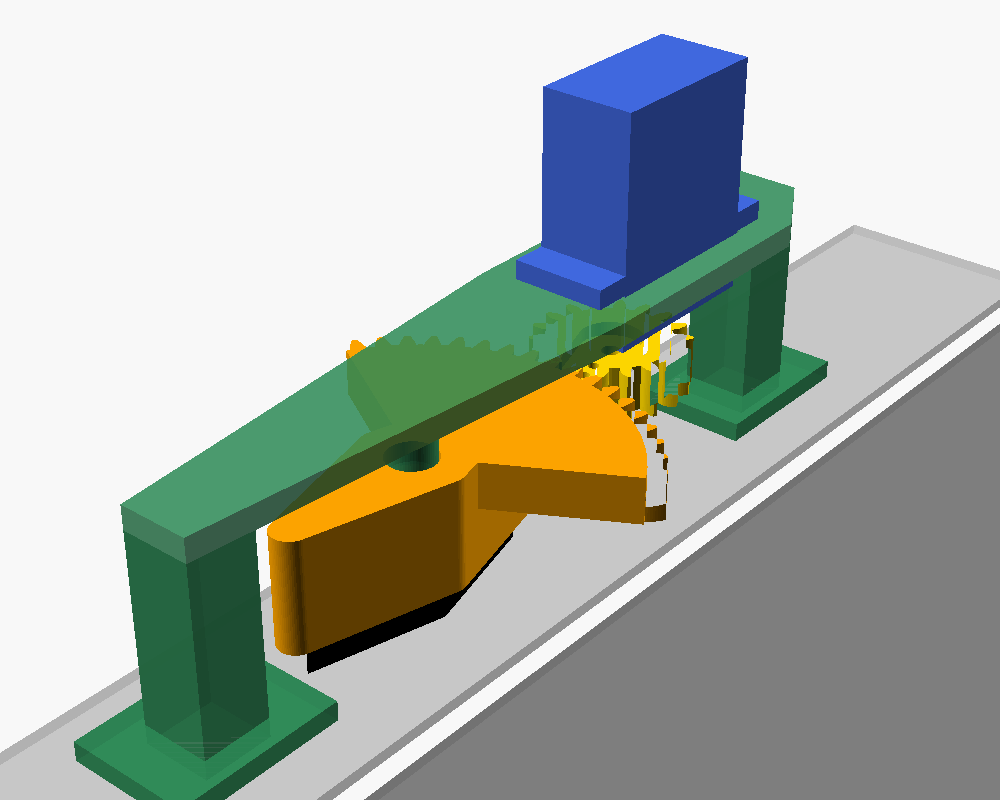
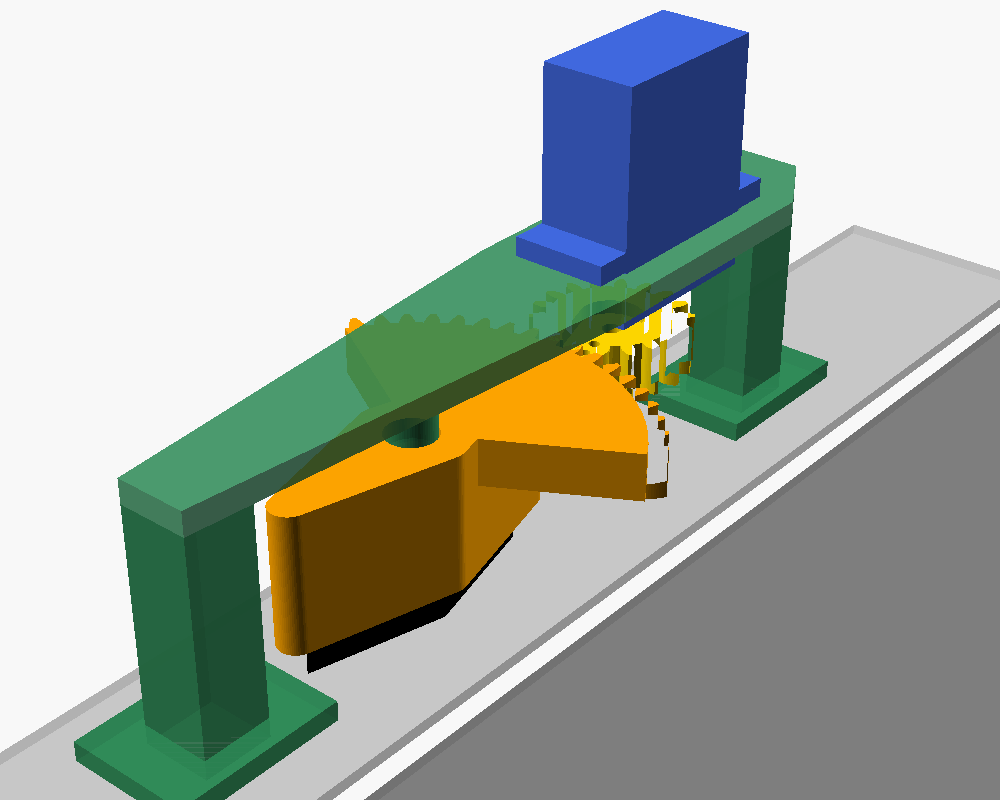
Gemessene Knopfhöhe (15 mm) übernommen, Hülse greift 10 mm über
Claude-Session: https://claude.ai/code/session_01V2ShDL9xXnCPpknpFR2EBe

Changed region(s): [[0.093, 0.1875, 0.806, 0.7188], [0.527, 0.0, 0.775, 0.1562]]

diff --git a/hardware/README.md b/hardware/README.md
@@ -37,7 +37,7 @@ zu prüfen.
 | Parameter | Bedeutung |
 |---|---|
 | `knob_len`, `knob_w` | Länge und größte Breite der Raute (gemessen: 35 / 9 mm) |
-| `knob_h` | wie weit der Knopf aus dem Rahmen ragt (**noch messen**, Platzhalter 12 mm) |
+| `knob_h` | wie weit der Knopf aus dem Rahmen ragt (gemessen: 15 mm) |
 | `engage` | wie tief die Hülse über den Knopf greift (≤ `knob_h`) |
 | `knob_angle` | Lage der Rautenlängsachse bei der Montage (90 = senkrecht) |
 | `feet` | Fußpositionen relativ zur Knopfachse, beide auf dem Rahmenrand |
